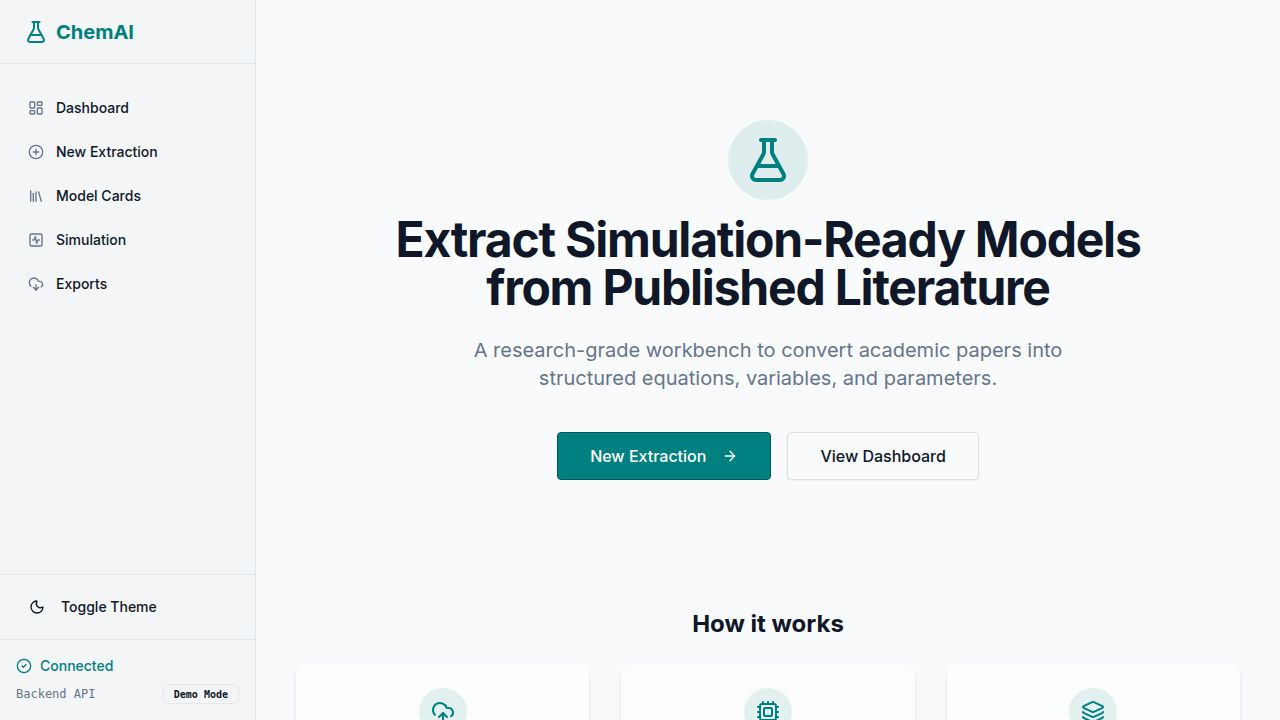
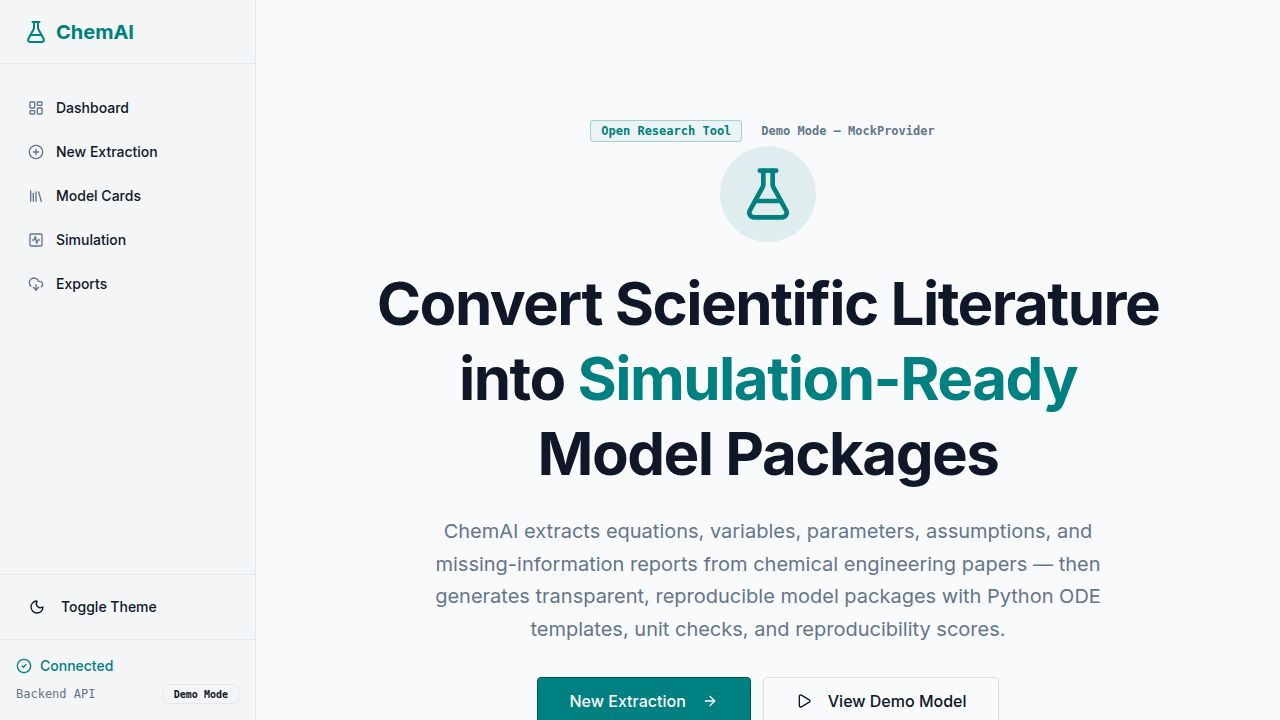
Prepare application for deployment on Replit by updating configurations and documentation
Update README with deployment instructions, modify artifact configuration, and adjust Vite build to handle environment variables correctly for production.

Replit-Commit-Author: Agent
Replit-Commit-Session-Id: 658d2fd2-31f0-430d-ae00-aeb6a3ef619b
Replit-Commit-Checkpoint-Type: full_checkpoint
Replit-Commit-Event-Id: 847f3ac7-29b0-4a33-9c91-f975f1c7c773
Replit-Commit-Screenshot-Url: https://storage.googleapis.com/screenshot-production-us-central1/aa55ce11-a6a7-4e0d-92e9-101df83e5ffc/658d2fd2-31f0-430d-ae00-aeb6a3ef619b/dZ7E3WV
Replit-Helium-Checkpoint-Created: true

diff --git a/artifacts/chem-ai/vite.config.ts b/artifacts/chem-ai/vite.config.ts
@@ -4,18 +4,27 @@ import tailwindcss from "@tailwindcss/vite";
 import path from "path";
 import runtimeErrorOverlay from "@replit/vite-plugin-runtime-error-modal";
 
+// PORT is only required for the dev server (vite dev / vite preview).
+// Production builds (vite build) write static files and don't need a port.
+const isBuild = process.env.VITE_COMMAND === "build" ||
+  process.argv.includes("build");
+
 const rawPort = process.env.PORT;
+let port = 5173; // safe default for build mode
 
-if (!rawPort) {
-  throw new Error(
-    "PORT environment variable is required but was not provided.",
-  );
-}
-
-const port = Number(rawPort);
-
-if (Number.isNaN(port) || port <= 0) {
-  throw new Error(`Invalid PORT value: "${rawPort}"`);
+if (!isBuild) {
+  if (!rawPort) {
+    throw new Error(
+      "PORT environment variable is required but was not provided.",
+    );
+  }
+  const parsed = Number(rawPort);
+  if (Number.isNaN(parsed) || parsed <= 0) {
+    throw new Error(`Invalid PORT value: "${rawPort}"`);
+  }
+  port = parsed;
+} else if (rawPort) {
+  port = Number(rawPort) || 5173;
 }
 
 const basePath = process.env.BASE_PATH;

diff --git a/README.md b/README.md
@@ -307,6 +307,59 @@ All requests go through the shared proxy at `localhost:80`. Do not call service 
 
 ---
 
+## Deploying on Replit
+
+ChemAI Model Compiler is a two-service pnpm monorepo. Replit's publishing tool handles both services automatically once secrets are configured.
+
+### Required secrets (Replit → Secrets tab)
+
+| Secret | Where to get it | Required? |
+|---|---|---|
+| `DATABASE_URL` | Added automatically by the Replit PostgreSQL integration | **Yes** |
+| `SESSION_SECRET` | `openssl rand -hex 32` | Reserved — needed when auth (M15) is added |
+| `OPENAI_API_KEY` | [platform.openai.com](https://platform.openai.com) | No — app runs in mock mode without it |
+| `GEMINI_API_KEY` | [aistudio.google.com](https://aistudio.google.com) | No — app runs in mock mode without it |
+
+`PORT`, `BASE_PATH`, and `NODE_ENV` are injected automatically per-service — do not set them as secrets.
+
+### Database setup (first deployment only)
+
+The schema must be applied to the production database before the first deployment:
+
+```bash
+# From the Replit Shell (uses the DATABASE_URL secret automatically)
+pnpm --filter @workspace/db run push
+```
+
+After that, the server seeds demo data automatically on every startup (idempotent — safe to run repeatedly).
+
+### Run commands
+
+Replit injects these automatically via each artifact's `artifact.toml` — no manual configuration needed.
+
+| Service | Production command |
+|---|---|
+| API server | `node --enable-source-maps artifacts/api-server/dist/index.mjs` |
+| Frontend | Served as static files from `artifacts/chem-ai/dist/public` |
+
+### Verify the deployment
+
+After publishing, check these endpoints on your `.replit.app` domain:
+
+```
+GET /api/healthz        → {"status":"ok"}
+GET /api/projects       → [{"id":1,"name":"Chemostat — microalgae bioreactor (Andrews 1968)",...}]
+GET /                   → React app loads, demo model visible in dashboard
+```
+
+### Mock mode (no AI keys needed)
+
+All extraction features work in mock mode — a deterministic mock provider returns a pre-built chemostat model card with realistic equations, parameters, and a reproducibility score. The full 10-tab model card, RK4 simulator, and ZIP export all function without any API key.
+
+To enable real AI extraction, add `OPENAI_API_KEY` or `GEMINI_API_KEY` to Replit Secrets (requires M13 milestone implementation).
+
+---
+
 ## Contributing
 
 This project is under active development. If you find a bug or want to propose a feature, open an issue or submit a pull request.